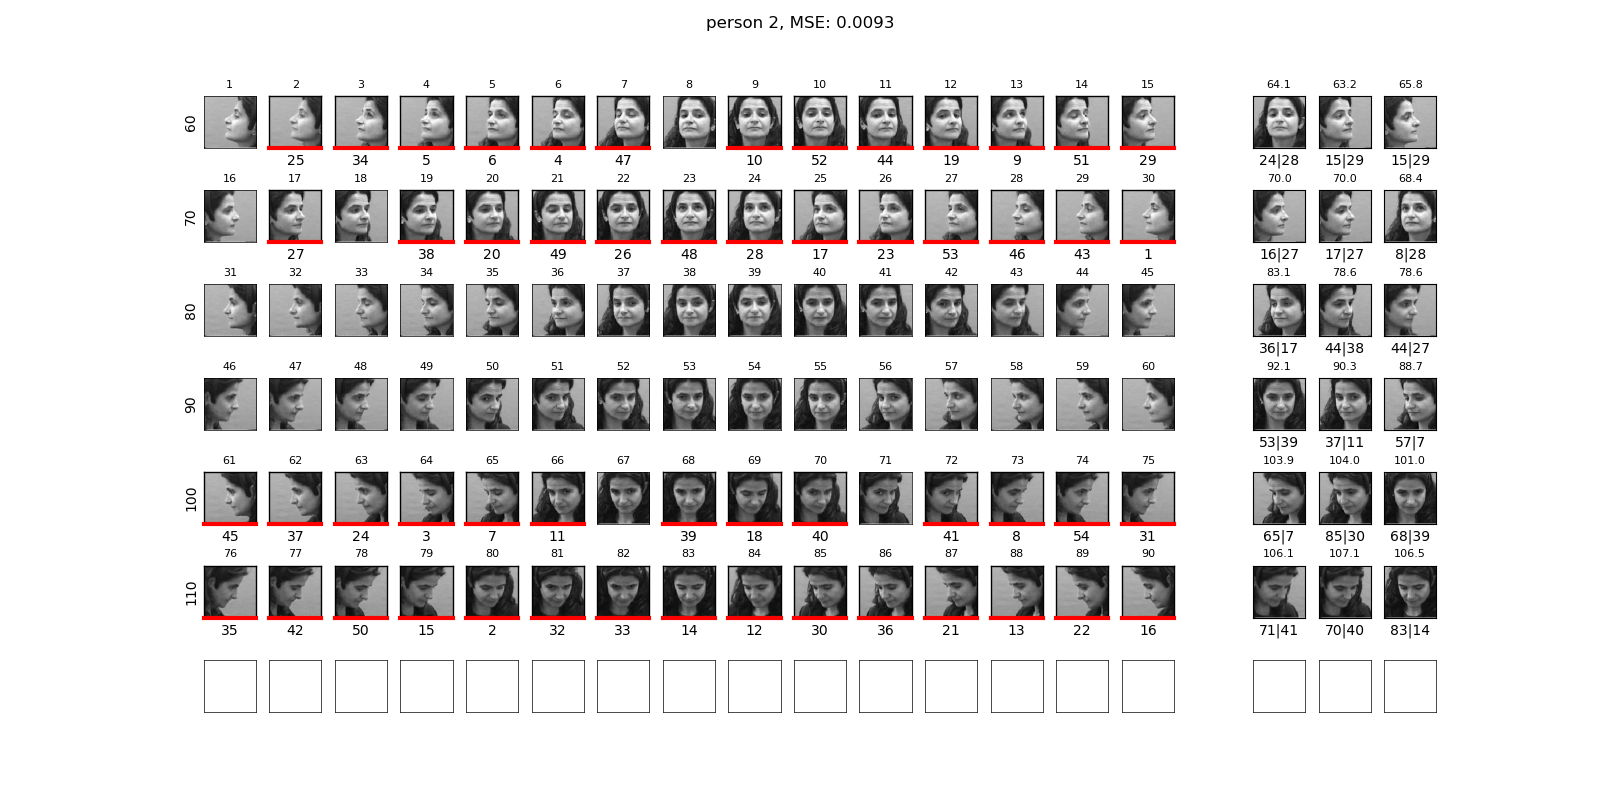
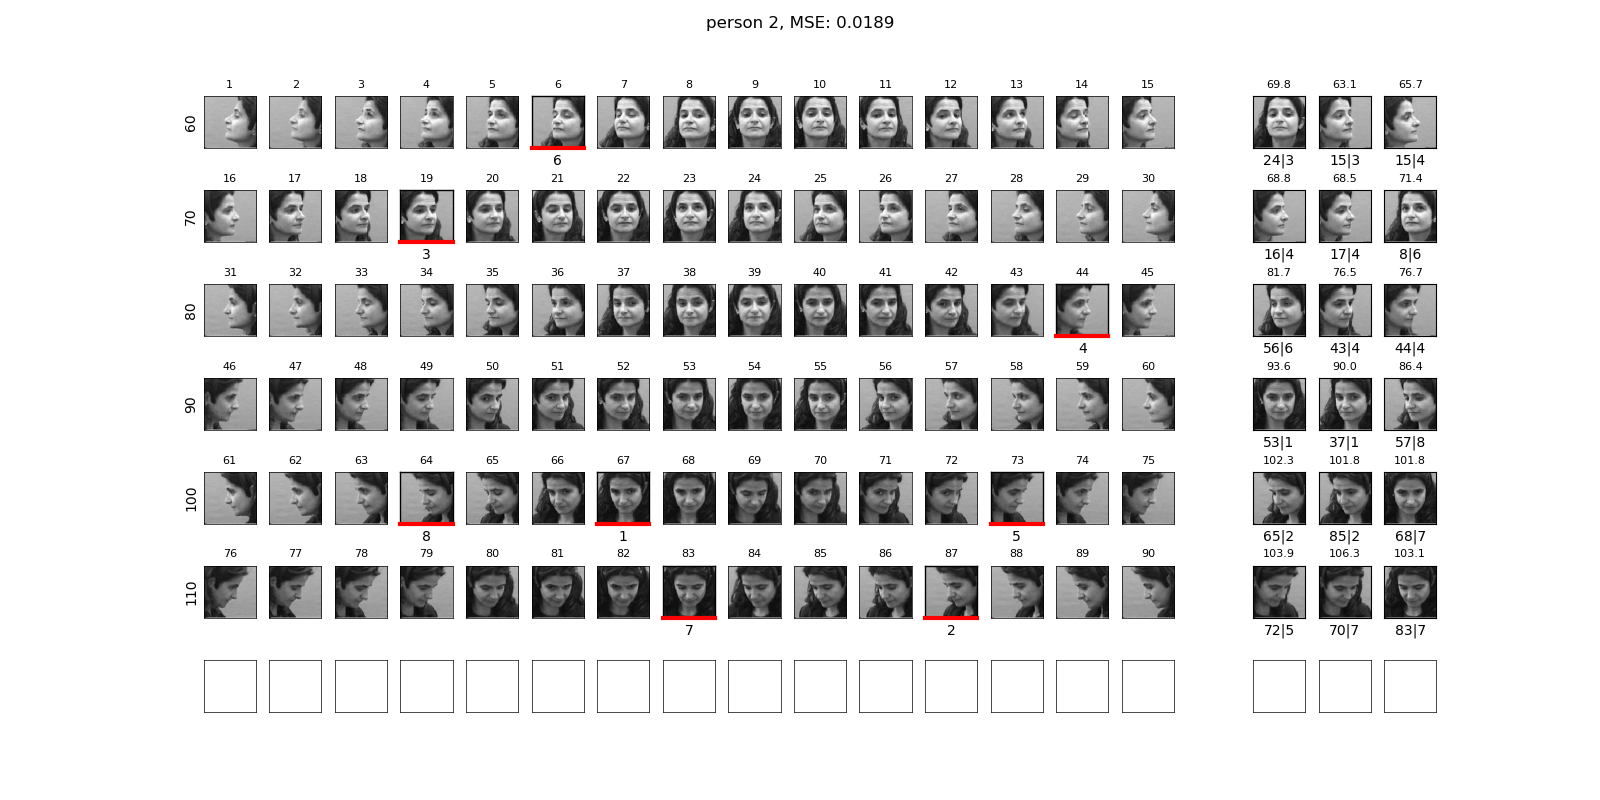
update

diff --git a/io_utils.py b/io_utils.py
@@ -54,7 +54,7 @@ def parse_args_regression(script):
         parser.add_argument('--sparse_method', default='KMeans', type=str, help='KMeans / FRVM / random')
         parser.add_argument('--dataset'     , default='QMUL',    help='QMUL / sines')
         parser.add_argument('--spectral', action='store_true', help='Use a spectral covariance kernel function')
-        parser.add_argument('--n_samples', default=72, type=int, help='Number of points on trajectory') #at most 19 
+        parser.add_argument('--n_samples', default=108, type=int, help='Number of points on trajectory') #at most 19 
         parser.add_argument('--show_plots_features', action='store_true', help='Show plots') 
         parser.add_argument('--n_centers', default=24, type=int, help='Number of Inducing points/ KMeans centers in Kmeans sparsifying')
         if script == 'train_regression':

diff --git a/data/qmul_loader.py b/data/qmul_loader.py
@@ -59,7 +59,7 @@ def get_batch(train_people=train_people, num_samples=108):
     # pitches = np.random.choice(tilt, size=num_samples, replace=True)
     pitches = []
     tilt = np.arange(60, 130, step=10)
-    p = np.random.choice(tilt, size=6, replace=False)
+    p = np.random.choice(tilt, size=(num_samples//18), replace=False)
     for e in p:
         pitches.extend([e]*18)
     curve   = [(p,a) for p, a in zip(pitches, angles)]
